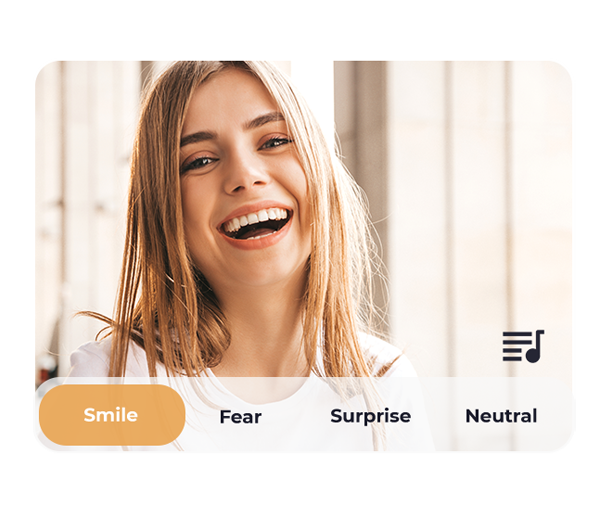
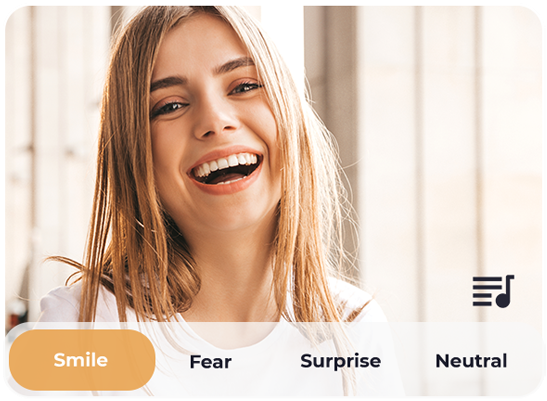
modify background image

diff --git a/pages/views/home.tsx b/pages/views/home.tsx
@@ -1,14 +1,17 @@
 import { FC } from 'react';
 import Link from 'next/link';
-import 'bootstrap/dist/css/bootstrap.min.css';
+import Container from 'react-bootstrap/Container';
+import Row from 'react-bootstrap/Row';
+import Col from 'react-bootstrap/Col';
 
 const Home: FC = ({}) => {
 
   return (
-      <div className="container" style={{marginTop:"8rem"}}>
+      <Container fluid>
+      <div style={{marginTop:"8rem"}}>
 
-        <div className="row">
-          <div className="col-xl" style={{}}>
+        <Row>
+          <Col>
               <h4 style={{fontSize: '60px', lineHeight: '2.5rem'}}>Edit your video</h4>
               <h4 style={{fontSize: '60px', }}>Quickly & Easily</h4>
 
@@ -20,14 +23,15 @@ const Home: FC = ({}) => {
                   <a className="start_button">TRY YOUR VIDEO</a>
                 </Link>
               </div>
-          </div>
+          </Col>
 
-          <div className="col-xl">
-            <img style={{ width: "600px", height: "500px"}} src='http://sarac33.dothome.co.kr/image.png' />
-          </div>
-        </div>
+          <Col>
+            <img style={{ width: "600px", height: "410px"}} src='http://sarac33.dothome.co.kr/image.png' />
+          </Col>
+        </Row>
     
       </div>
+      </Container>
   );
 };
 

diff --git a/components/about.css b/components/about.css
@@ -8,13 +8,14 @@
     white-space: nowrap;
 }
 
-html {
+
+html, body {
+    height: 100%;
     background-image: url("./assets/background.png");
+    background-repeat: no-repeat;
+    background-position: 50% 50%;
+    background-attachment: fixed;
     background-size: cover;
-    background-repeat: no-repeat center center fixed; 
-    -webkit-background-size: cover;
-    -moz-background-size: cover;
-    -o-background-size: cover;
     font-family: 'Jost-VariableFont_wght';
 }
 div {
@@ -22,14 +23,9 @@ div {
 }
 
 .total_div {
-    width: 90%;
-    height: 100%;
-    margin: 10%;
+   height:98%;
 }
 
-.main_div {
-}
-`
 .image_div {
     margin-top: 10rem;
     width: 40%;

diff --git a/pages/_app.tsx b/pages/_app.tsx
@@ -6,16 +6,18 @@ import '../components/dropzone.css'
 import '../components/about.css'
 import '../components/button.css'
 import '../components/editor.css'
-
+import 'bootstrap/dist/css/bootstrap.min.css';
 
 
 const MyApp: FC<AppProps> = ({ Component, pageProps }) => {
   return (
-    <div>
-      <Navbar />
-        <div>
-          <Component {...pageProps} />
-        </div>
+    <div className="total_div">
+      <div>
+        <Navbar />
+          <div>
+            <Component {...pageProps} />
+          </div>
+      </div>
     </div>
   );
 };
